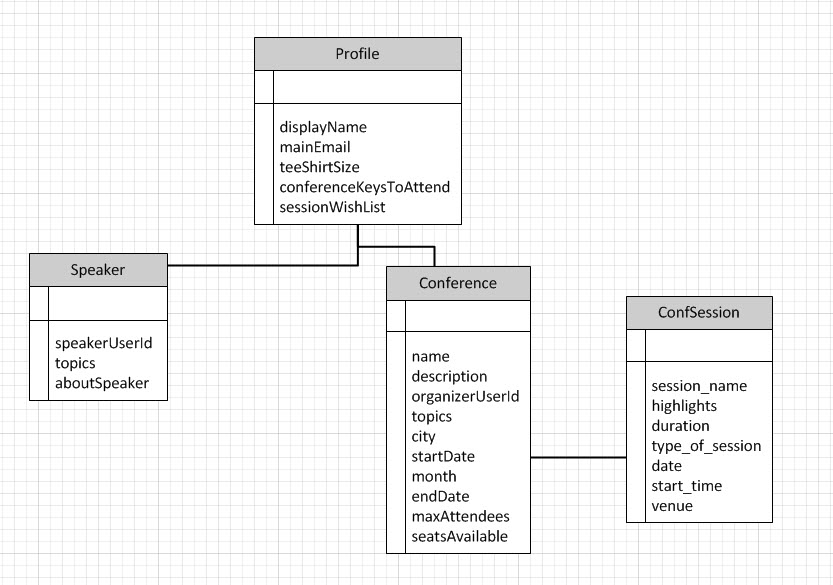
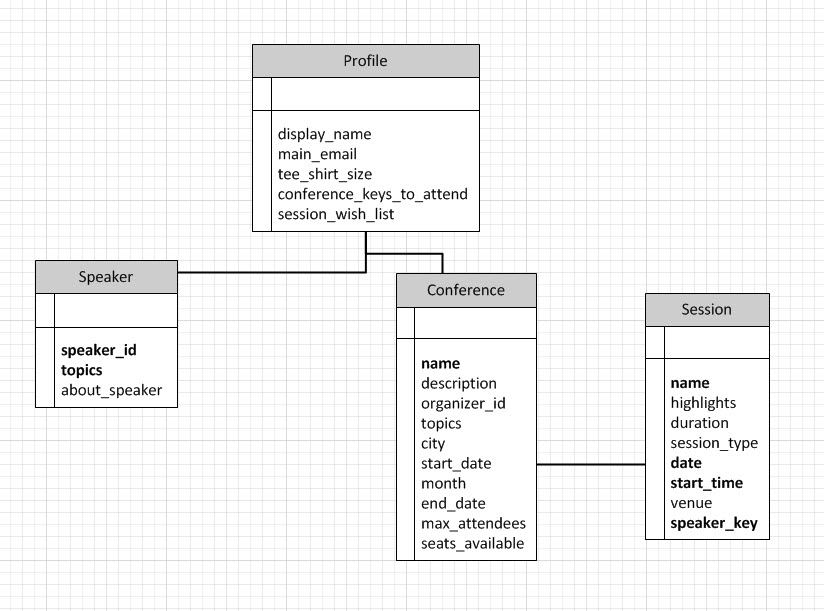
updated the readme and the dbdesign

diff --git a/README.md b/README.md
@@ -886,7 +886,7 @@ The Entity for storing the conference sessions
 
     * name - name of the session
     * highlights - session highlights 
-    * speaker - speaker key to connect it with the speakers
+    * speaker_key - speaker key to connect it with the speakers
     * duration - duration of the session
     * session_type - type of session can be one of the following 
     		* GENERAL 
